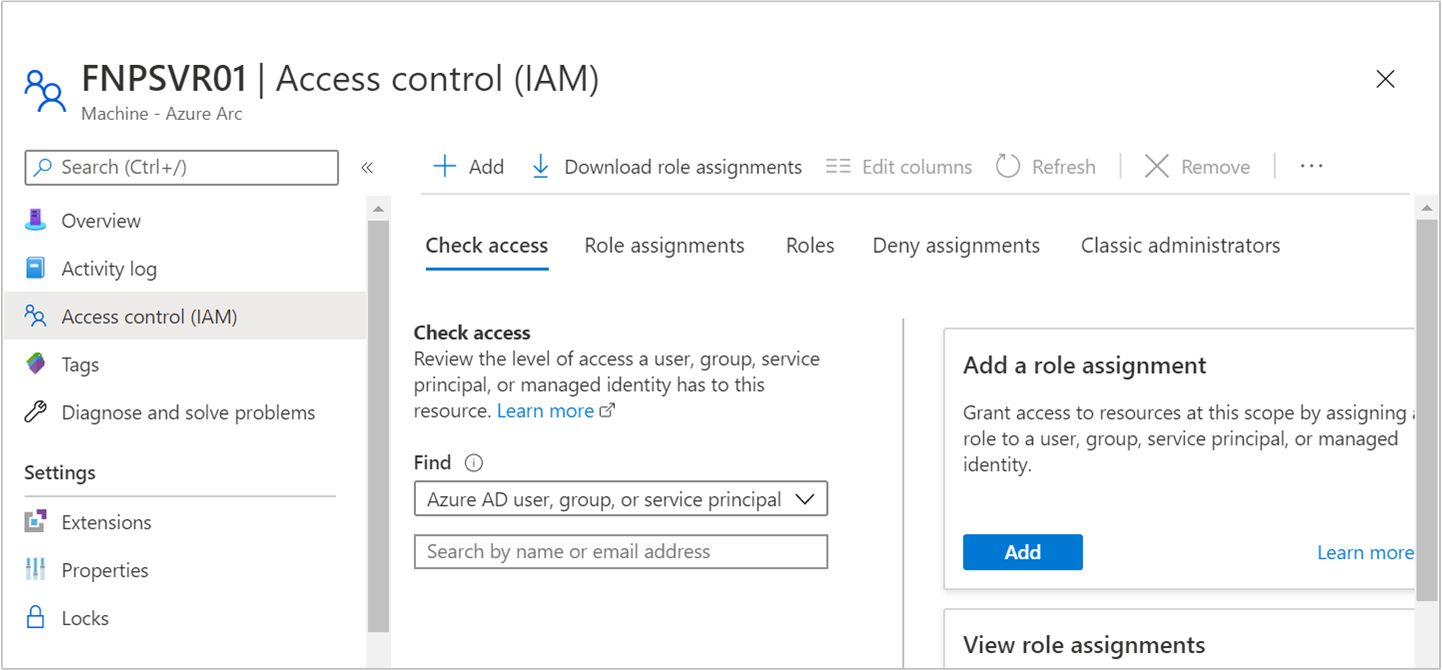
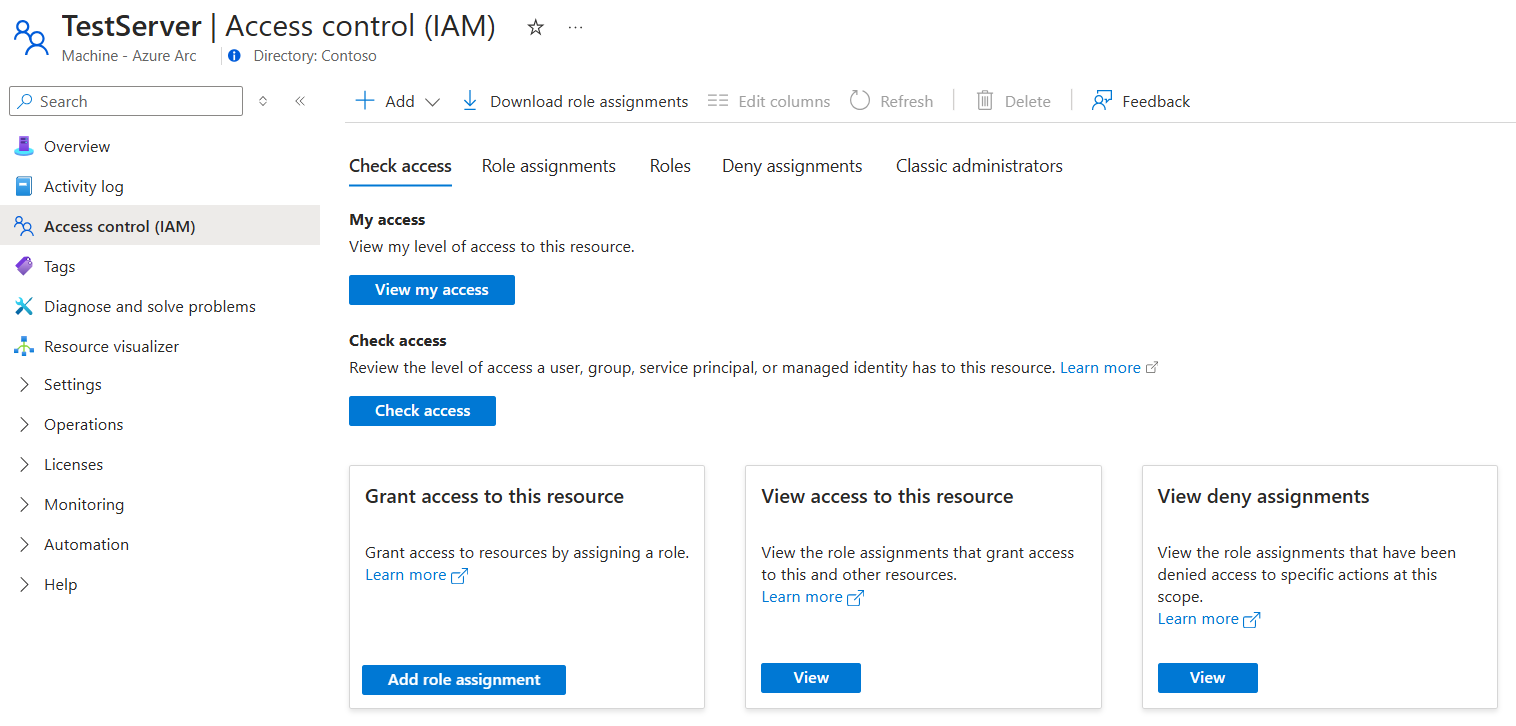
refresh portal image and info

diff --git a/articles/azure-arc/servers/security-identity-authorization.md b/articles/azure-arc/servers/security-identity-authorization.md
@@ -2,24 +2,23 @@
 title: Identity and authorization
 description: Identity and authorization for Azure Arc-enabled servers.
 ms.topic: conceptual
-ms.date: 06/06/2024
----
+ms.date: 03/06/2025
 
 # Identity and authorization
 
-This article describes the Microsoft Entra ID managed identity for Azure Arc-enabled servers, which is used for authentication when communicating with Azure, and details two built-in RBAC roles.
+This article describes the Microsoft Entra ID managed identity for Azure Arc-enabled servers, which is used for authentication when communicating with Azure, and details two useful Azure built-in roles.
 
 ## Microsoft Entra ID managed identity
 
-Every Azure Arc-enabled server has a system-assigned Microsoft Entra ID managed identity associated with it. This identity is used by the agent to authenticate itself with Azure. It can also be used by extensions or other authorized apps on your system to access resources that understand OAuth tokens. The managed identity appears in the Microsoft Entra ID portal with the same name as the Azure Arc-enabled server resource. For example, if your Azure Arc-enabled server is named *prodsvr01*, an enterprise app in Microsoft Entra ID with the same name appears.
+Every Azure Arc-enabled server has a system-assigned Microsoft Entra ID managed identity associated with it. This identity is used by the agent to authenticate itself with Azure. It can also be used by extensions or other authorized apps on your system to access resources that understand OAuth tokens. The managed identity appears in the Microsoft Entra ID portal with the same name as the Azure Arc-enabled server resource. For example, if your Azure Arc-enabled server is named `prodsvr01`, an enterprise app in Microsoft Entra ID with the same name appears.
 
-Each Microsoft Entra ID directory has a finite limit for the number of objects it can store. A managed identity counts as one object in the directory. If you're planning a large deployment of Azure Arc-enabled servers, check the available quota in your Microsoft Entra ID directory first and submit a support request for more quota if necessary. You can see the available and used quota in the [List Organizations API](/graph/api/intune-onboarding-organization-list) response under the “directorySizeLimit” section.
+Each Microsoft Entra ID directory has a finite limit for the number of objects it can store. A managed identity counts as one object in the directory. If you're planning a large deployment of Azure Arc-enabled servers, check the available quota in your Microsoft Entra ID directory first, and submit a support request for more quota if necessary. You can see the available and used quota in the [List Organizations API](/graph/api/intune-onboarding-organization-list) response under the `directorySizeLimit` section.
 
 The managed identity is fully managed by the agent. As long as the agent stays connected to Azure, it handles rotating the credential automatically. The certificate backing the managed identity is valid for 90 days. The agent attempts to renew the certificate when it has 45 or fewer days of validity remaining. If the agent is offline long enough to expire, the agent becomes “expired” as well and won't connect to Azure. In this situation, automatic reconnection isn't possible and requires you to disconnect and reconnect the agent to Azure using an onboarding credential.
 
-The managed identity certificate is stored on the local disk of the system. It’s important that you protect this file, because anyone in possession of this certificate can request a token from Microsoft Entra ID. The agent stores the certificate in C:\ProgramData\AzureConnectedMachineAgent\Certs\ on Windows and /var/opt/azcmagent/certs on Linux. The agent automatically applies an access control list to this directory, restricting access to local administrators and the "himds" account. Don't modify access to the certificate files or modify the certificates on your own. If you think the credential for a system-assigned managed identity has been compromised, [disconnect](/azure/azure-arc/servers/azcmagent-disconnect) the agent from Azure and [connect](/azure/azure-arc/servers/azcmagent-connect) it again to generate a new identity and credential. Disconnecting the agent removes the resource in Azure, including its managed identity.
+The managed identity certificate is stored on the local disk of the system. It’s important that you protect this file, because anyone in possession of this certificate can request a token from Microsoft Entra ID. The agent stores the certificate in `C:\ProgramData\AzureConnectedMachineAgent\Certs\` on Windows and `/var/opt/azcmagent/certs` on Linux. The agent automatically applies an access control list to this directory, restricting access to local administrators and the "himds" account. Don't modify access to the certificate files or modify the certificates on your own. If you think the credential for a system-assigned managed identity has been compromised, [disconnect](/azure/azure-arc/servers/azcmagent-disconnect) the agent from Azure and [connect](/azure/azure-arc/servers/azcmagent-connect) it again to generate a new identity and credential. Disconnecting the agent removes the resource in Azure, including its managed identity.
 
-When an application on your system wants to get a token for the managed identity, it issues a request to the REST identity endpoint at *http://localhost:40342/identity*. There are slight differences in how Azure Arc handles this request compared to Azure VM. The first response from the API includes a path to a challenge token located on disk. The challenge token is stored in *C:\ProgramData\AzureConnectedMachineAgent\tokens* on Windows or */var/opt/azcmagent/tokens* on Linux. The caller must prove they have access to this folder by reading the contents of the file and reissuing the request with this information in the authorization header. The tokens directory is configured to allow administrators and any identity belonging to the "Hybrid agent extension applications" (Windows) or the "himds" (Linux) group to read the challenge tokens. If you're authorizing a custom application to use the system-assigned managed identity, you should add its user account to the appropriate group to grant it access.
+When an application on your system wants to get a token for the managed identity, it issues a request to the REST identity endpoint at `http://localhost:40342/identity`. There are slight differences in how Azure Arc handles this request compared to Azure VM. The first response from the API includes a path to a challenge token located on disk. The challenge token is stored in `C:\ProgramData\AzureConnectedMachineAgent\tokens` on Windows or `/var/opt/azcmagent/tokens` on Linux. The caller must prove they have access to this folder by reading the contents of the file and reissuing the request with this information in the authorization header. The tokens directory is configured to allow administrators and any identity belonging to the "Hybrid agent extension applications" (Windows) or the "himds" (Linux) group to read the challenge tokens. If you're authorizing a custom application to use the system-assigned managed identity, you should add its user account to the appropriate group to grant it access.
 
 To learn more about using a managed identity with Arc-enabled servers to authenticate and access Azure resources, see the following video.
 
@@ -27,23 +26,22 @@ To learn more about using a managed identity with Arc-enabled servers to authent
 
 ## RBAC roles
 
-There are two built-in roles in Azure that you can use to control access to an Azure Arc-enabled server:
+Azure role-based access control (Azure RBAC) has two [built-in roles](/azure/role-based-access-control/built-in-roles) that you can use to control access to an Arc-enabled server:
 
 - **Azure Connected Machine Onboarding**, intended for accounts used to connect new machines to Azure Arc. This role allows accounts to see and create new Arc servers but disallows extension management.
 
 - **Azure Connected Machine Resource Administrator**, intended for accounts that will manage servers once they’re connected. This role allows accounts to read, create, and delete Arc servers, VM extensions, licenses, and private link scopes.
 
-Generic RBAC roles in Azure also apply to Azure Arc-enabled servers, including Reader, Contributor, and Owner.
+Generic Azure built-in roles also apply to Azure Arc-enabled servers, including Reader, Contributor, and Owner.
 
 ## Identity and access control
 
-[Azure role-based access control](/azure/role-based-access-control/overview) is used to control which accounts can see and manage your Azure Arc-enabled server. From the [**Access Control (IAM)**](/azure/role-based-access-control/role-assignments-portal) page in the Azure portal, you can verify who has access to your Azure Arc-enabled server.
+[Azure RBAC](/azure/role-based-access-control/overview) is used to control which accounts can see and manage your Azure Arc-enabled server. From the [**Access Control (IAM)**](/azure/role-based-access-control/role-assignments-portal) page in the Azure portal, you can verify who has access to your Azure Arc-enabled server.
 
 :::image type="content" source="media/security-identity-authorization/access-control-page.png" alt-text="Screenshot of the Azure portal showing Azure Arc-enabled server access control.":::
 
-Users and applications granted [contributor](/azure/role-based-access-control/built-in-roles#contributor) or administrator role access to the resource can make changes to the resource, including deploying or deleting [extensions](manage-vm-extensions.md) on the machine. Extensions can include arbitrary scripts that run in a privileged context, so consider any contributor on the Azure resource to be an indirect administrator of the server.
+Users and applications granted the [Contributor](/azure/role-based-access-control/built-in-roles#contributor) or an administrator role to a resource can make changes to it, including deploying or deleting [extensions](manage-vm-extensions.md) on the machine. Extensions can include arbitrary scripts that run in a privileged context, so consider any contributor on the Azure resource to be an indirect administrator of the server.
 
-The **Azure Connected Machine Onboarding** role is available for at-scale onboarding, and is only able to read or create new Azure Arc-enabled servers in Azure. It cannot be used to delete servers already registered or manage extensions. As a best practice, we recommend only assigning this role to the Microsoft Entra service principal used to onboard machines at scale.
+The **Azure Connected Machine Onboarding** role is available for at-scale onboarding. This role only grants permission to read or create new Azure Arc-enabled servers in Azure. It doesn't grant permission to delete servers that were already registered, or to manage extensions. As a best practice, we recommend only assigning this role to the Microsoft Entra service principal used to onboard machines at scale.
 
-Users as a member of the **Azure Connected Machine Resource Administrator** role can read, modify, reonboard, and delete a machine. This role is designed to support management of Azure Arc-enabled servers, but not other resources in the resource group or subscription.
-
+Users who have the **Azure Connected Machine Resource Administrator** role can read, modify, reonboard, and delete a machine. This role is designed to support management of Azure Arc-enabled servers, but not other resources in the resource group or subscription.
